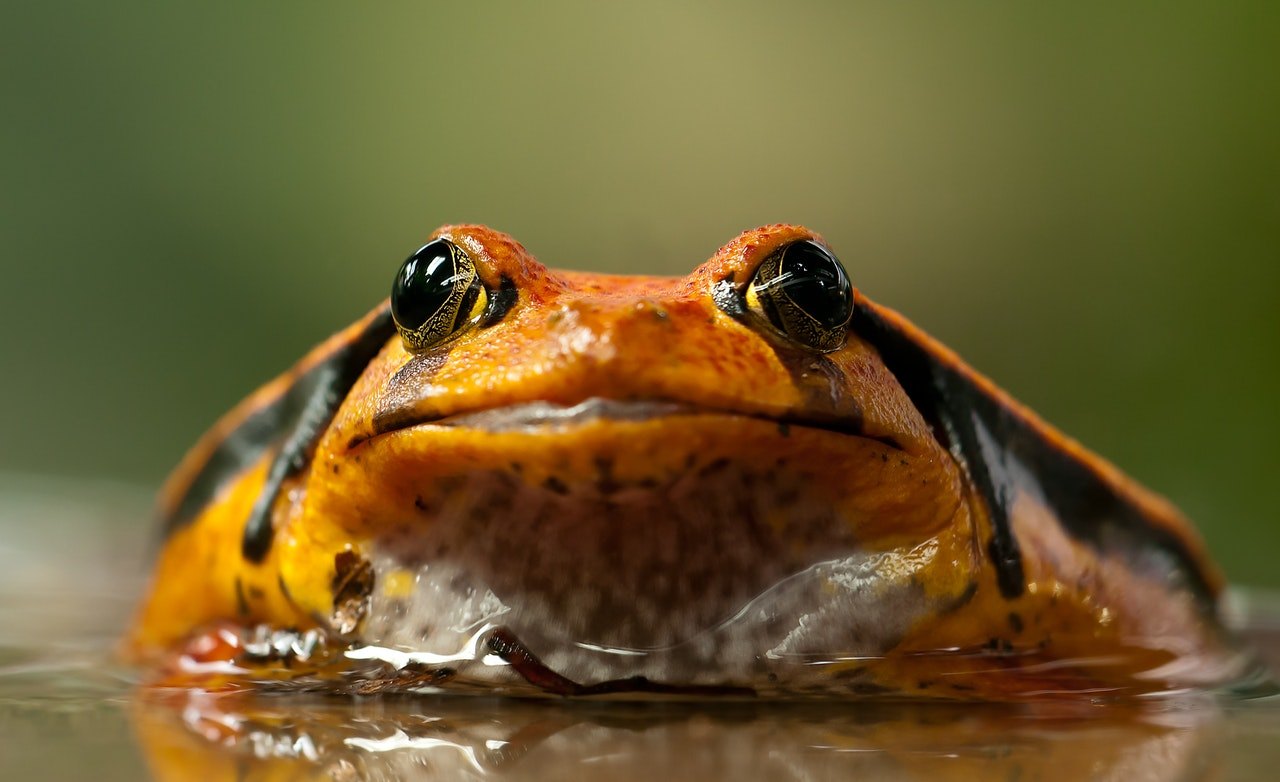
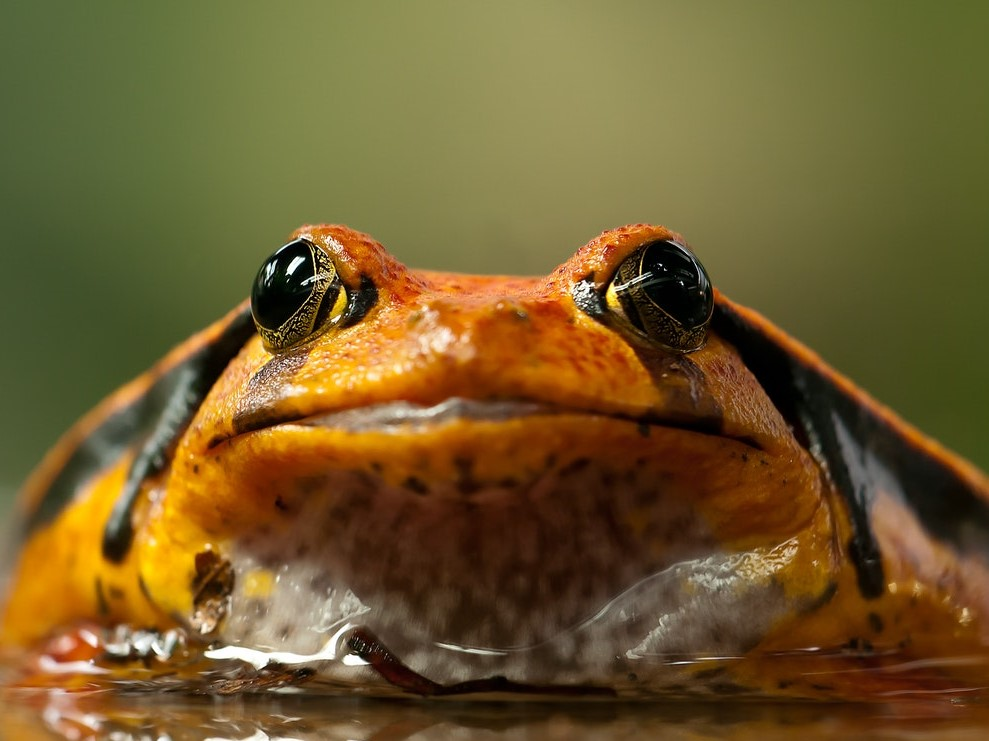
adding responsive images

diff --git a/portfolio.html b/portfolio.html
@@ -59,28 +59,13 @@
                                 <div class="row">
                                     <div class="col-md-4">
                                         <div class="myCard">
-                                            <img class="card-img-top portfolioCard" src="assets/images/frog1.jpeg" alt="Frog1">
+                                            <img class="card-img-top portfolioCard img-fluid" src="assets/images/frog1.jpeg" alt="Frog1">
                                             <p class="cardLabel">Frog1</p>
                                         </div>
                                     </div>
                                     <div class="col-md-4">
                                         <div class="myCard">
-                                            <img class="card-img-top portfolioCard" src="assets/images/frog2.jpeg" alt="Frog2">
-                                            <p class="cardLabel">Frog1</p>
-                                        </div>
-                                    </div>
-
-                                </div>
-                                <div class="row">
-                                    <div class="col-md-4">
-                                        <div class="myCard">
-                                            <img class="card-img-top portfolioCard" src="assets/images/frog3.jpeg" alt="Frog3">
-                                            <p class="cardLabel">Frog1</p>
-                                        </div>
-                                    </div>
-                                    <div class="col-md-4">
-                                        <div class="myCard">
-                                            <img class="card-img-top portfolioCard" src="assets/images/frog4.jpeg" alt="Frog4">
+                                            <img class="card-img-top portfolioCard img-fluid" src="assets/images/frog2.jpeg" alt="Frog2">
                                             <p class="cardLabel">Frog1</p>
                                         </div>
                                     </div>
@@ -89,7 +74,22 @@
                                 <div class="row">
                                     <div class="col-md-4">
                                         <div class="myCard">
-                                            <img class="card-img-top portfolioCard" src="assets/images/frog5.jpeg" alt="Frog5">
+                                            <img class="card-img-top portfolioCard img-fluid" src="assets/images/frog3.jpeg" alt="Frog3">
+                                            <p class="cardLabel">Frog1</p>
+                                        </div>
+                                    </div>
+                                    <div class="col-md-4">
+                                        <div class="myCard">
+                                            <img class="card-img-top portfolioCard img-fluid" src="assets/images/frog4.jpeg" alt="Frog4">
+                                            <p class="cardLabel">Frog1</p>
+                                        </div>
+                                    </div>
+
+                                </div>
+                                <div class="row">
+                                    <div class="col-md-4">
+                                        <div class="myCard">
+                                            <img class="card-img-top portfolioCard img-fluid" src="assets/images/frog5.jpeg" alt="Frog5">
                                             <p class="cardLabel">Frog1</p>
                                         </div>
                                     </div>

diff --git a/assets/style/style.css b/assets/style/style.css
@@ -89,7 +89,8 @@
 }
 
 .portfolioCard{
-    height:150px;
+    max-width:100%;
+    height:auto;
 }
 
 .myCard:hover{
